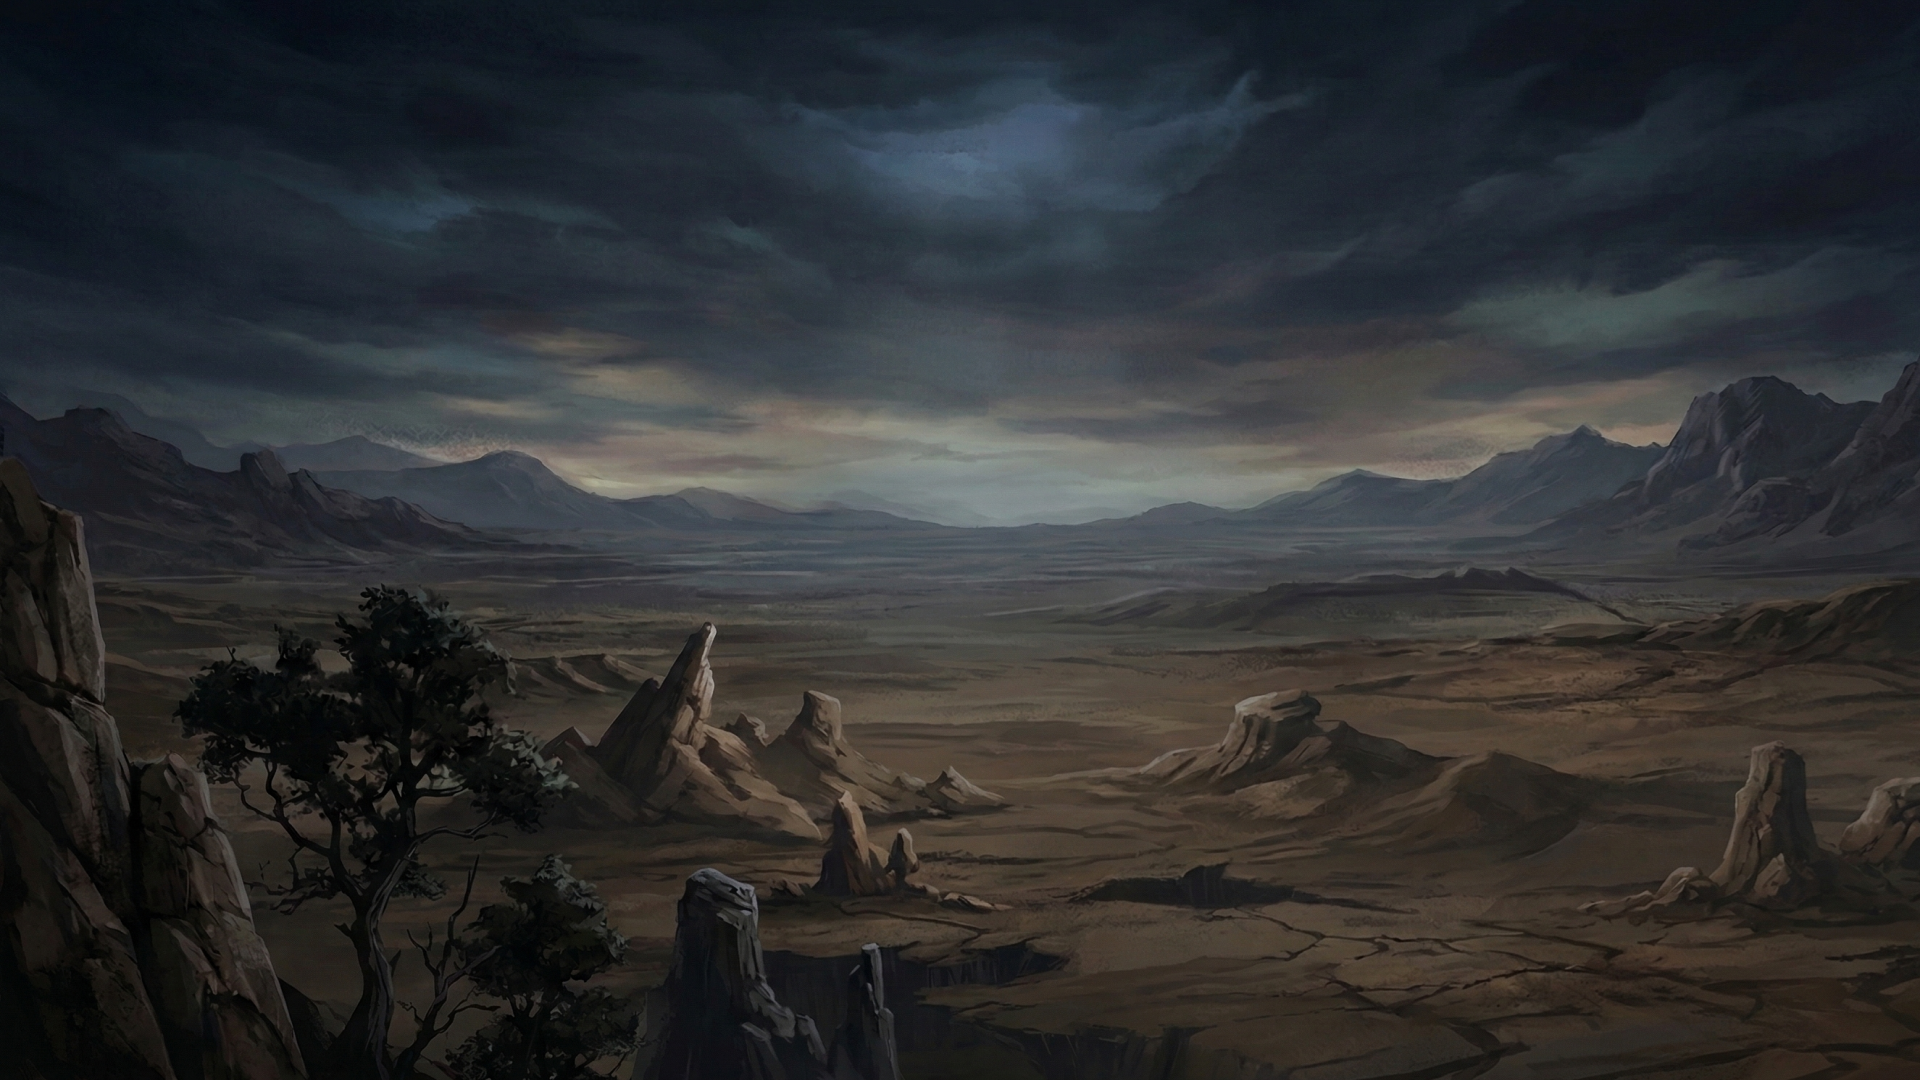
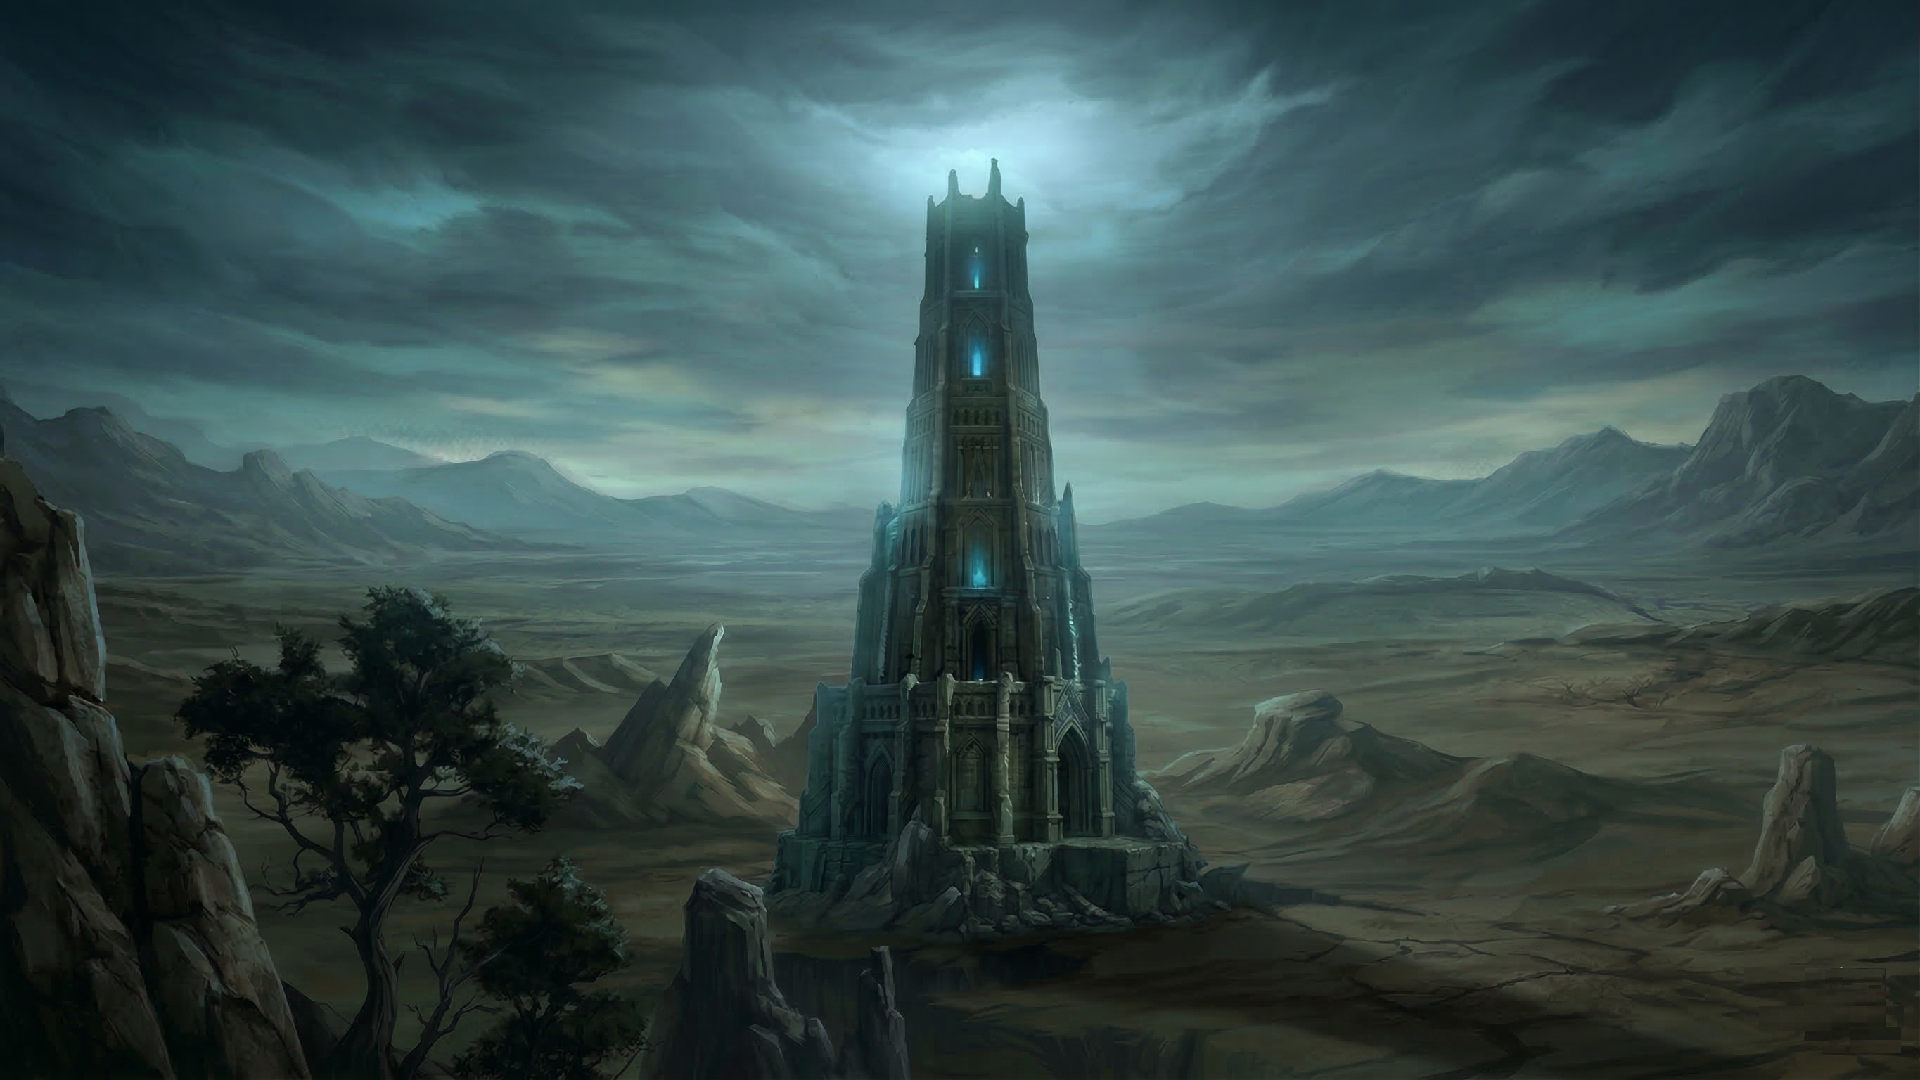
intro 이미지 자연스럽지 않음으로 변경

diff --git a/src/scenes/IntroScene.ts b/src/scenes/IntroScene.ts
@@ -15,11 +15,12 @@ export default class IntroScene extends Phaser.Scene {
     // 1. 가장 뒷 배경 (움직임 없음)
     this.add.image(width / 2, height / 2, 'bg1').setOrigin(0.5);
 
-    // 2. 가운데 탑 이미지 (적은 움직임)
-    const bgLayer2 = this.add.image(width / 2, height / 2, 'bg2').setOrigin(0.5).setScale(0.9);
+    // 패럴랙스 이동 시 우측 하단 공백이 보이지 않도록 미리 이동 최대치만큼 더해둡니다.
+    const maxBg2OffsetX = (width / 2) * 0.04;
+    const maxBg2OffsetY = (height / 2) * 0.04;
 
-    // 3. 우측 하단 캐릭터 이미지 (크기 조절 및 우측 하단 배치)
-    const bgLayer3 = this.add.image(width, height, 'bg3')
+    // 2. 우측 하단 캐릭터 이미지 (크기 조절 및 우측 하단 배치)
+    const bgLayer2 = this.add.image(width + maxBg2OffsetX, height + maxBg2OffsetY, 'bg2')
       .setOrigin(1, 1) // 우측 하단 기준
       .setScale(0.5); // 캐릭터 크기가 너무 크다 하셔서 살짝 줄였습니다
 
@@ -29,12 +30,9 @@ export default class IntroScene extends Phaser.Scene {
       const offsetX = pointer.x - width / 2;
       const offsetY = pointer.y - height / 2;
 
-      // 마우스가 이동한 반대 방향으로 조금씩 이동
-      // 타워: 아주 살짝만 움직이도록 비율 감소 (0.005)
-      bgLayer2.setPosition(width / 2 - offsetX * 0.005, height / 2 - offsetY * 0.005);
-      
       // 캐릭터: 우측 하단 기준으로 살짝 이동 (0.04)
-      bgLayer3.setPosition(width - offsetX * 0.04, height - offsetY * 0.04);
+      // 여백을 더해두었으므로 우측 하단으로 마우스를 향해도 공백이 보이지 않습니다.
+      bgLayer2.setPosition((width + maxBg2OffsetX) - offsetX * 0.04, (height + maxBg2OffsetY) - offsetY * 0.04);
     });
 
     // Title

diff --git a/src/scenes/PreloadScene.ts b/src/scenes/PreloadScene.ts
@@ -2,7 +2,6 @@ import Phaser from 'phaser';
 
 import bg1 from '../assets/img/background/background_1.png';
 import bg2 from '../assets/img/background/background_2.png';
-import bg3 from '../assets/img/background/background_3.png';
 
 export default class PreloadScene extends Phaser.Scene {
   constructor() {
@@ -63,7 +62,6 @@ export default class PreloadScene extends Phaser.Scene {
     // 백그라운드 이미지 로드
     this.load.image('bg1', bg1);
     this.load.image('bg2', bg2);
-    this.load.image('bg3', bg3);
   }
 
   create() {
